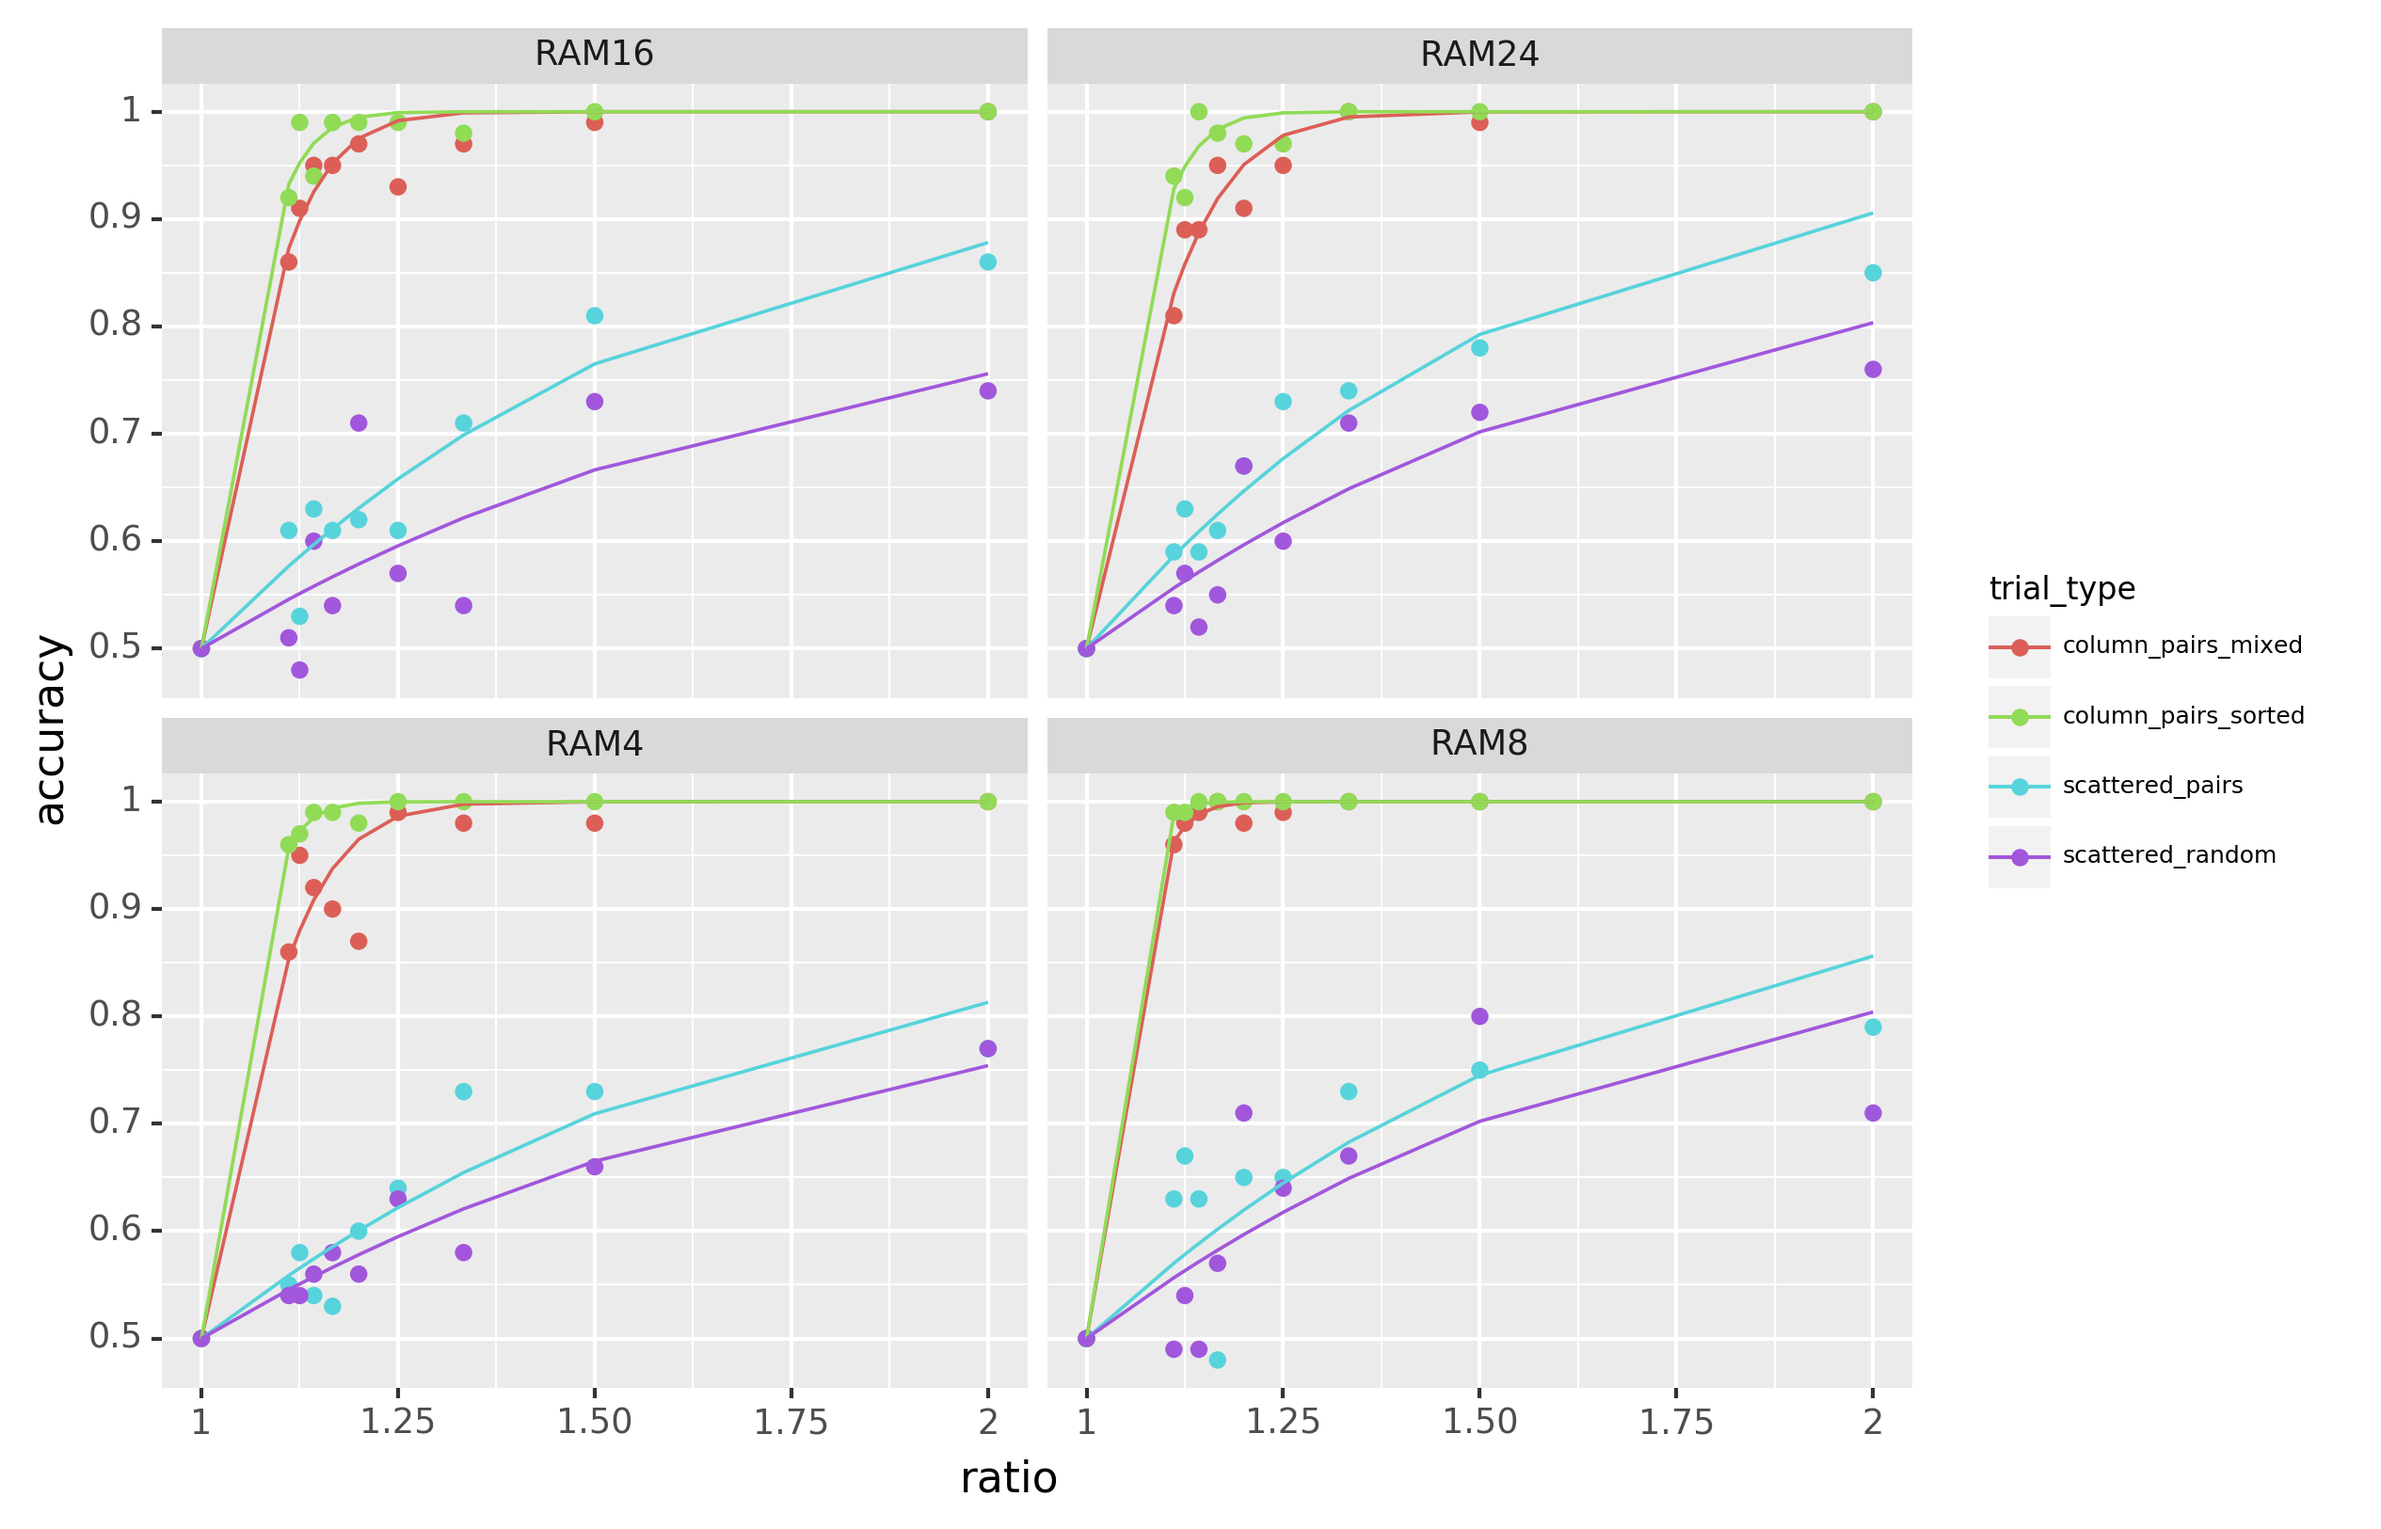
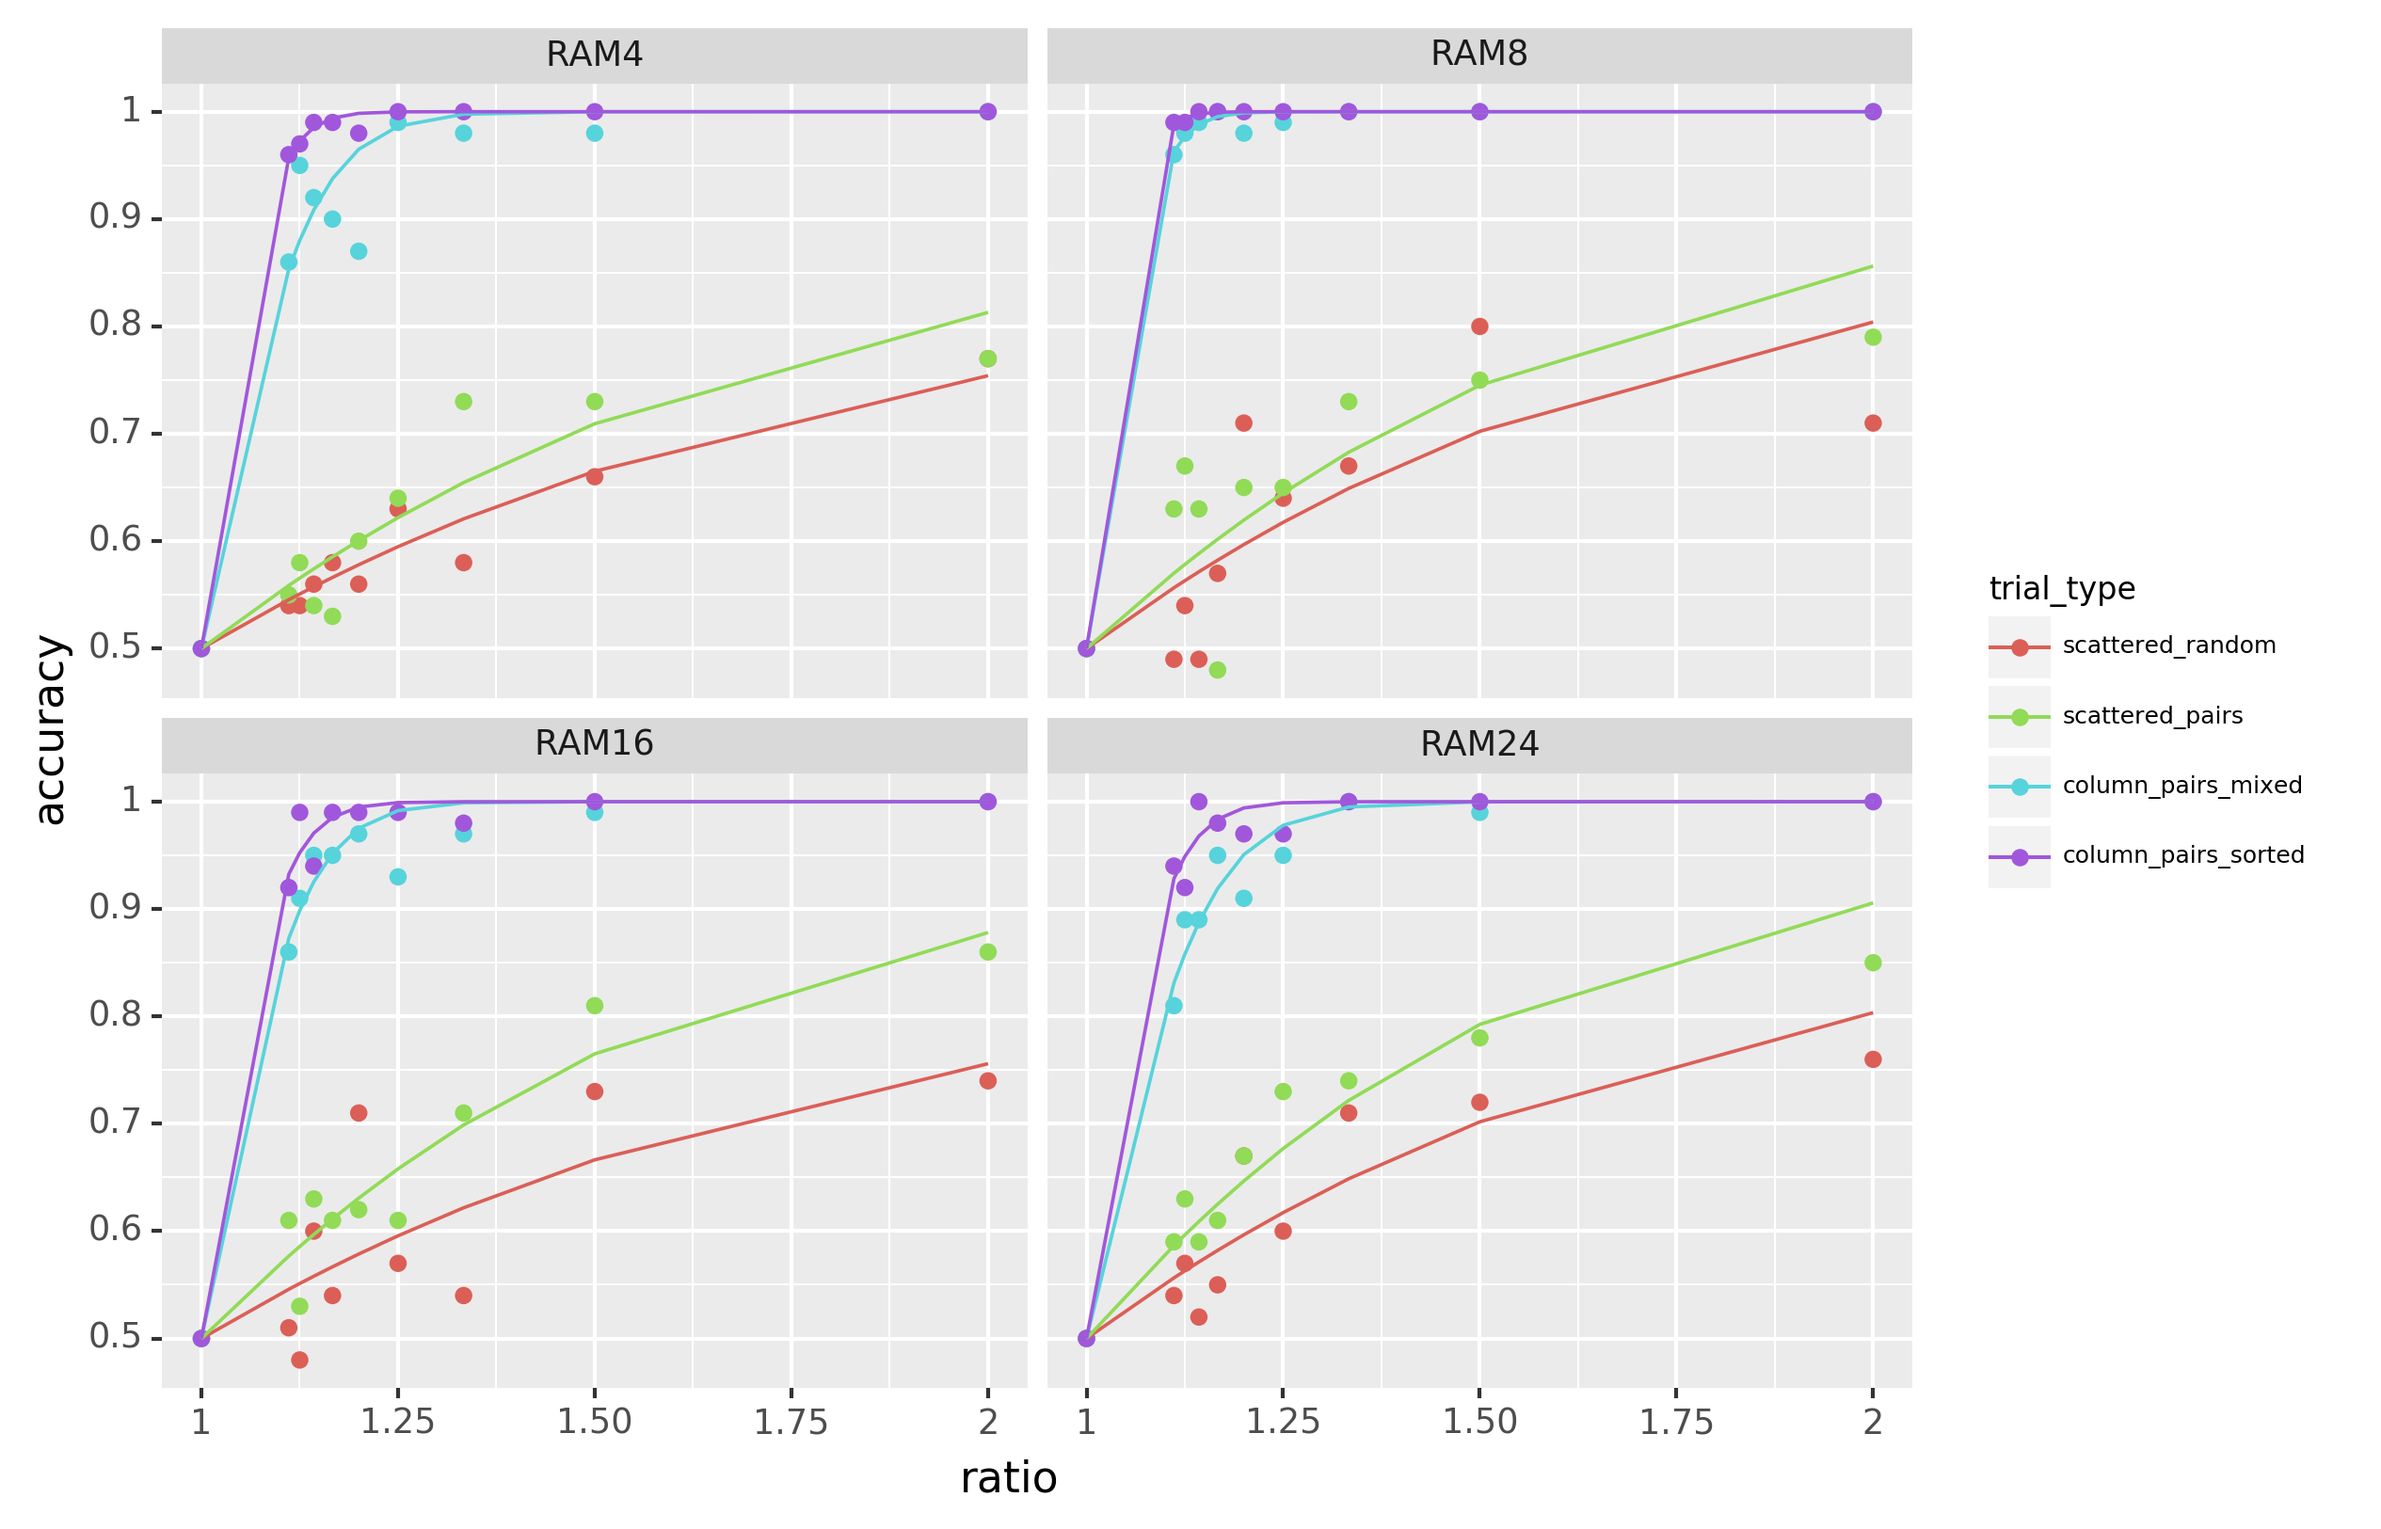
fixed ordering of models and trial types in plot

diff --git a/weber_fit.py b/weber_fit.py
@@ -81,6 +81,16 @@ def fit_models(mean_file, model_prefix):
     curve_fits = pd.DataFrame(curve_fits)
     curve_fits.to_csv('results/curve_fits_' + model_prefix + '.csv')
     models = pd.concat(model_frames)
+    # fix the ordering of the model labels
+    models['model'] = models['model'].astype(
+        'category', ordered=True,
+        categories=list(models['model'].unique()))
+    # fix order of trial types
+    models['trial_type'] = models['trial_type'].astype(
+        'category', ordered=True,
+        # is there a way to not hand-code this?
+        categories=['scattered_random', 'scattered_pairs',
+                    'column_pairs_mixed', 'column_pairs_sorted'])
     plot = (ggplot(models, aes(x='ratio'))
             + geom_point(aes(y='accuracy', colour='trial_type'))
             + geom_line(aes(y='fit_weber', colour='trial_type'))
